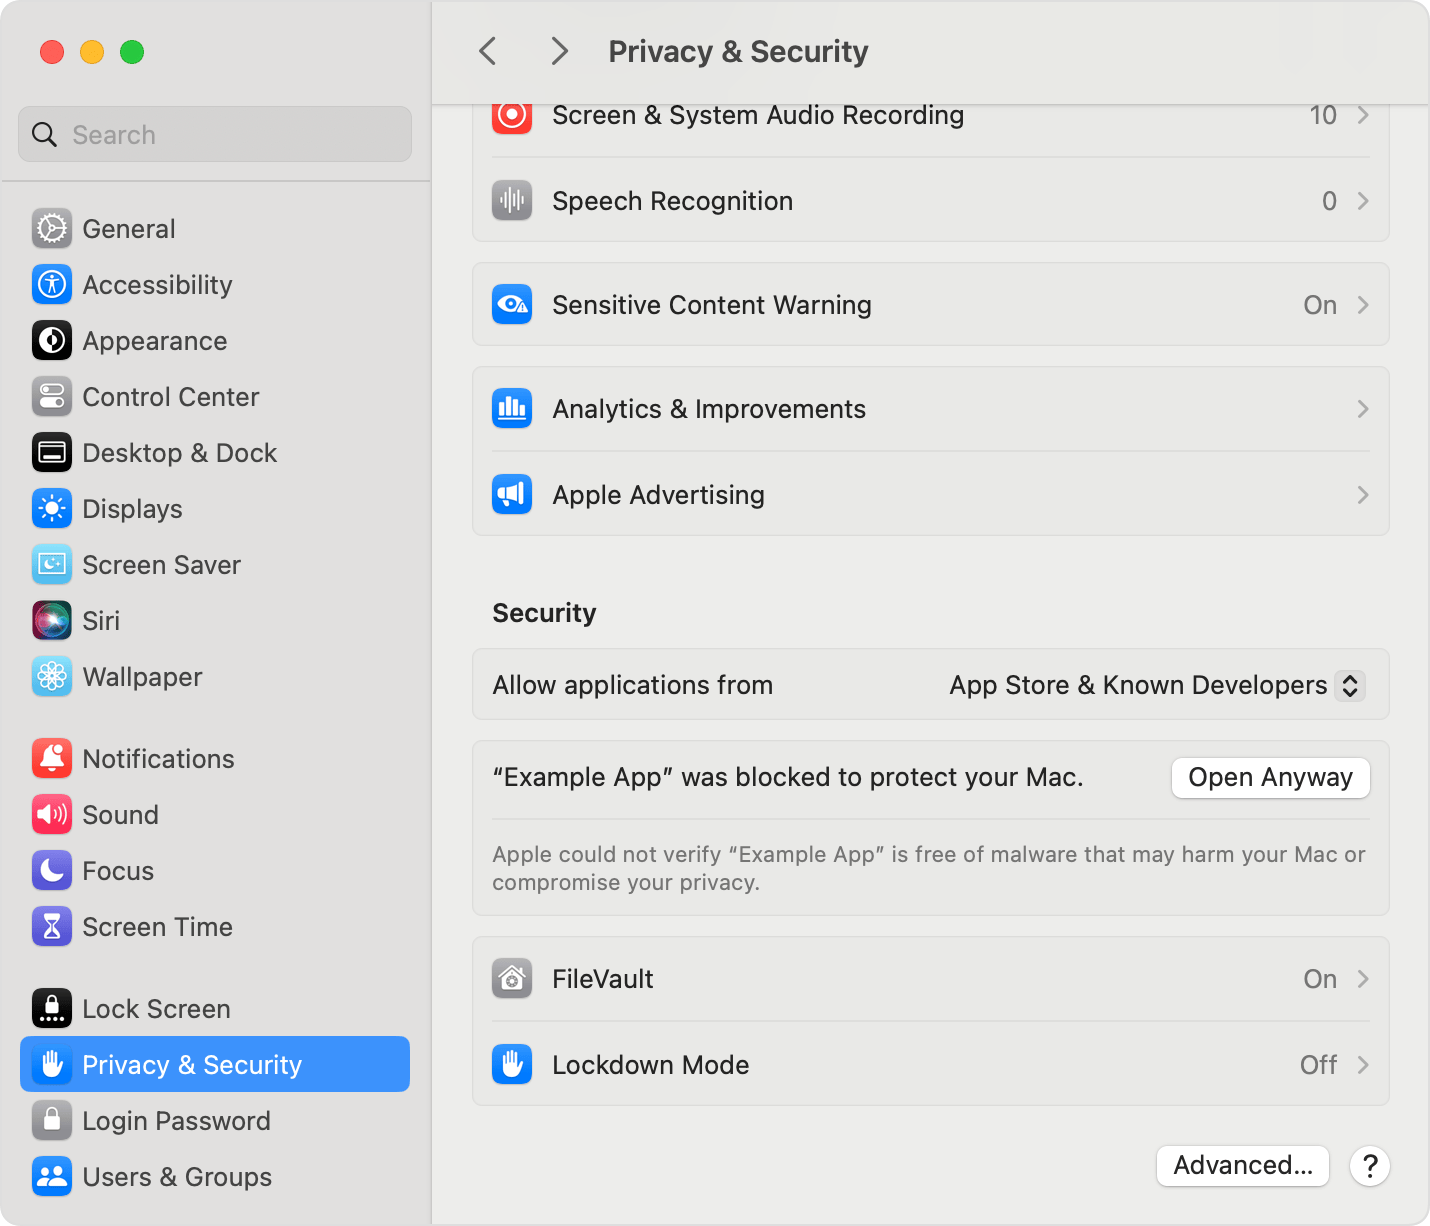
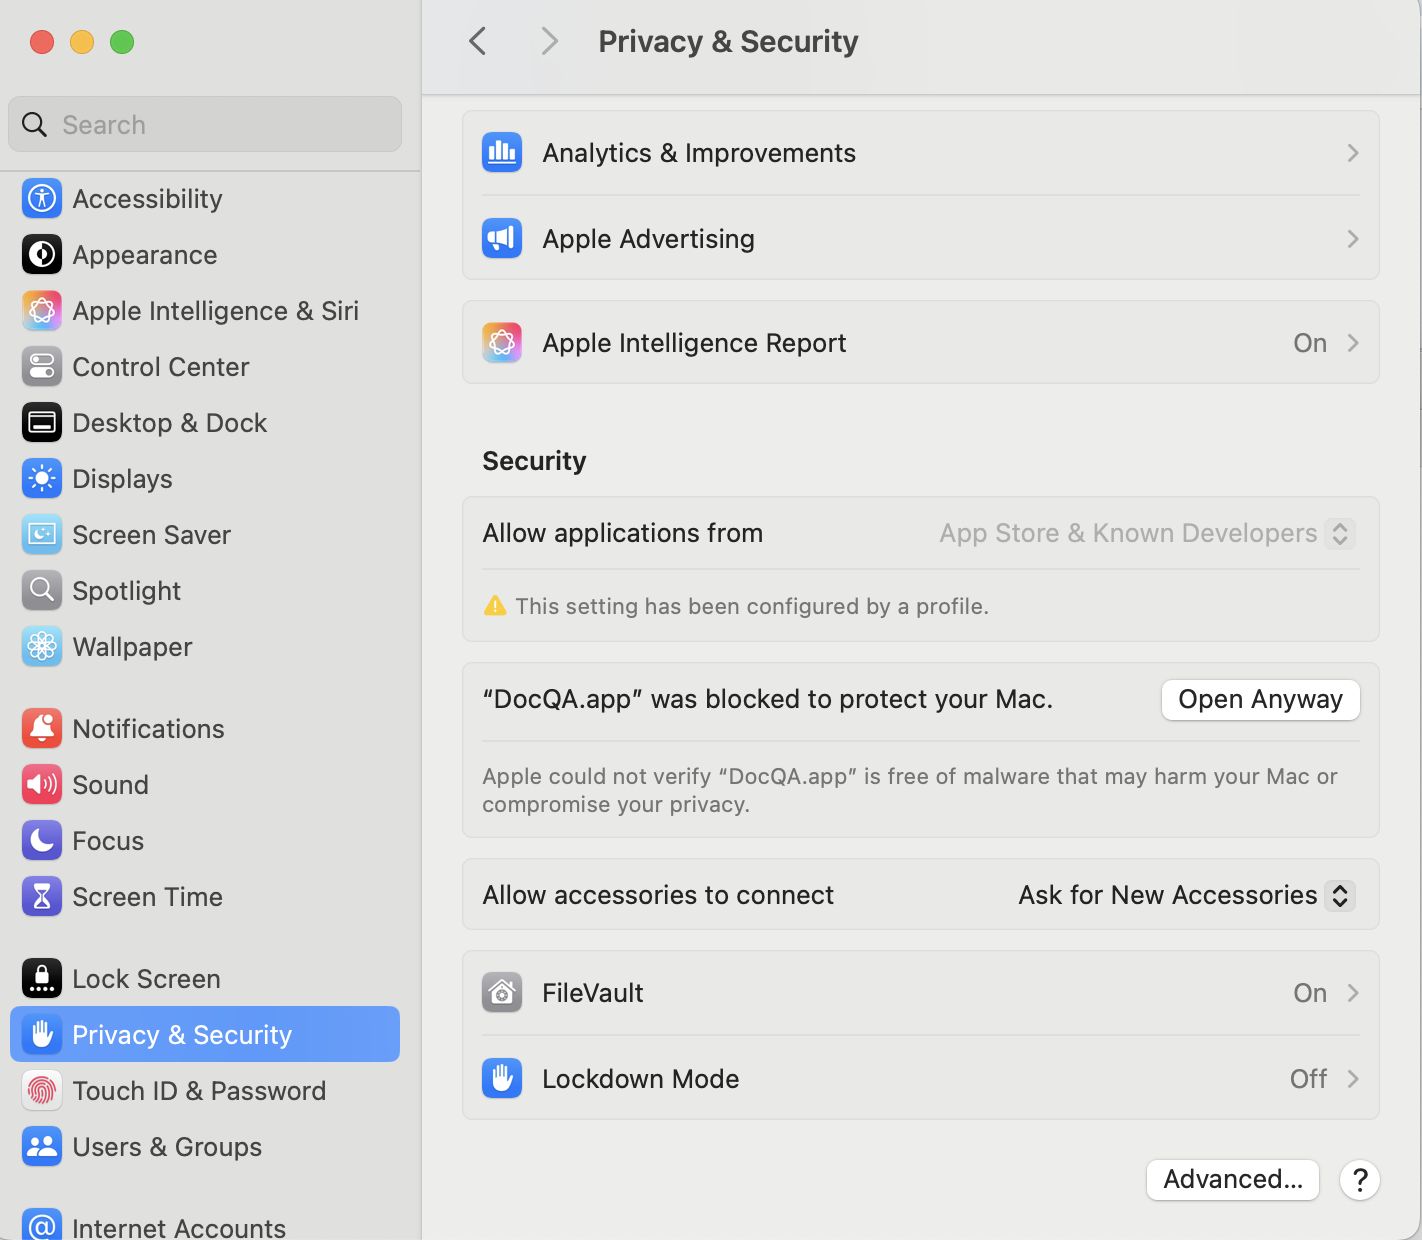
update readme

diff --git a/examples/DocQA/README.md b/examples/DocQA/README.md
@@ -22,7 +22,13 @@ Register an account in [TogetherAI](https://www.together.ai/) or [FireworksAI](h
 1. To get the dmg file, you can just download raw file from [here](https://github.com/meta-llama/llama-stack-apps/blob/docqav2/examples/DocQA/DocQA.dmg) or use git clone by first following instructions [here](https://docs.github.com/en/repositories/working-with-files/managing-large-files/installing-git-large-file-storage) to enable git lfs and do another `git pull`.
 
 2. Open the `DocQA.dmg` in the folder and move `DocQA.app` to Application folder to have it installed.
-(If `macOS can't verify that the app is free of malware` warning pops up and stops you from installing the app, you need to open `System Settings` -> `Privacy & Security` -> Choose `Open Anyway`, shown here: ![open-app-anyway](./assets/open-app-anyway.png) please check [this documentation](https://support.apple.com/en-us/102445) for more details on how to bypass this warning and install.)
+(If you see this warning pops up and stops you from installing the app:
+
+![open-app-anyway](./assets/warning.png)
+
+You need to open `System Settings` -> `Privacy & Security` -> Choose `Open Anyway`, shown here: ![open-app-anyway](./assets/open-app-anyway.png)
+
+Please check [this documentation](https://support.apple.com/en-us/102445) for more details on how to bypass this warning and install.)
 
 3. Double click `DocQA.app` in the Application folder.
 
